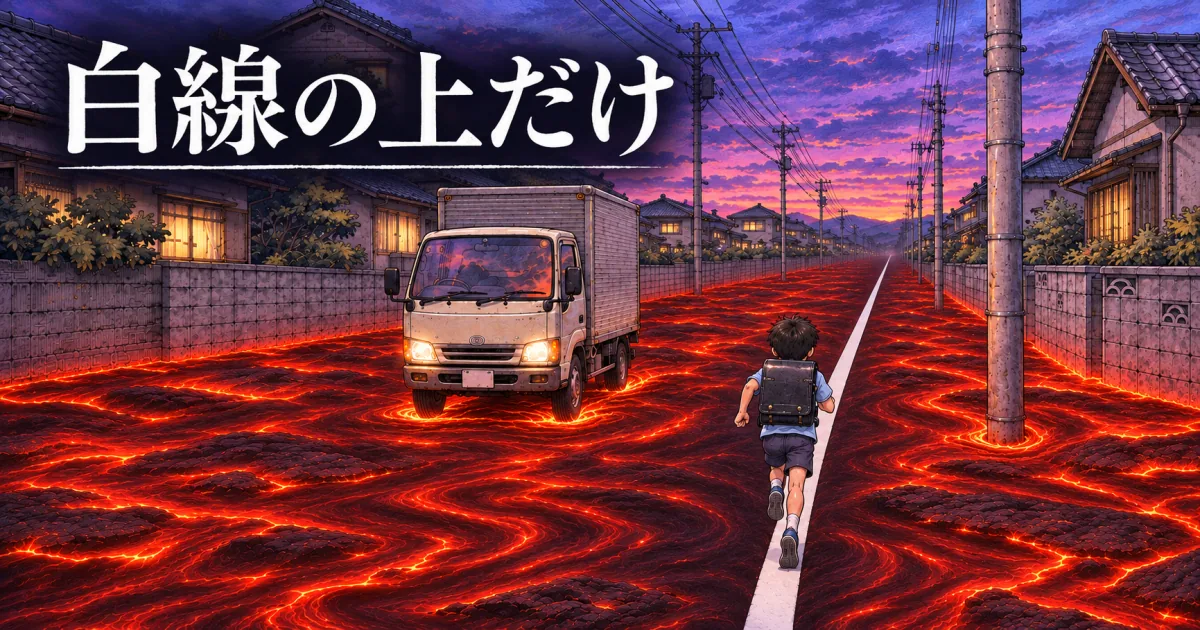
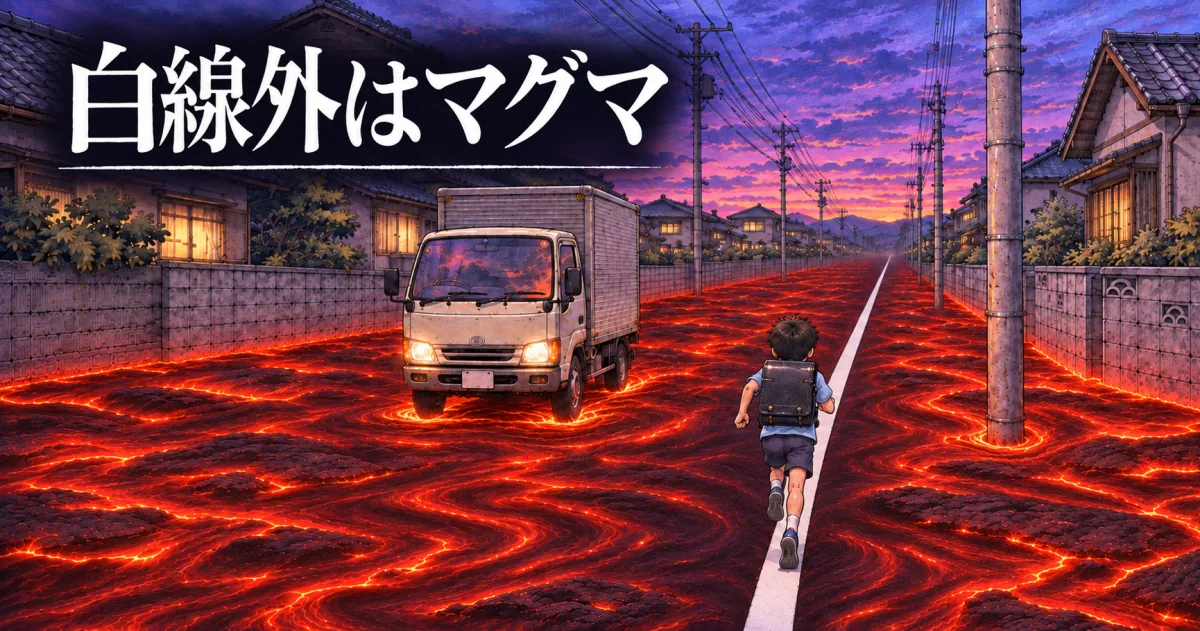
Rename the game to 白線外はマグマ (EMR-279)

diff --git a/white-line-magma/index.html b/white-line-magma/index.html
@@ -5,24 +5,24 @@
     <meta name="viewport" content="width=device-width, initial-scale=1, viewport-fit=cover" />
     <meta name="color-scheme" content="dark" />
     <meta name="theme-color" content="#0a0a0a" />
-    <title>白線の上だけ</title>
+    <title>白線外はマグマ</title>
     <meta name="description" content="夕暮れの通学路。白線の外はマグマ。落ちずにどこまで走れる？" />
     <link rel="canonical" href="https://games.escape-safari.com/white-line-magma/" />
     <meta property="og:type" content="website" />
-    <meta property="og:title" content="白線の上だけ" />
+    <meta property="og:title" content="白線外はマグマ" />
     <meta property="og:description" content="夕暮れの通学路。白線の外はマグマ。落ちずにどこまで走れる？" />
     <meta property="og:url" content="https://games.escape-safari.com/white-line-magma/" />
-    <meta property="og:image" content="https://games.escape-safari.com/white-line-magma/assets/ogp.webp" />
+    <meta property="og:image" content="https://games.escape-safari.com/white-line-magma/assets/ogp.webp?v=white-line-title" />
     <meta property="og:image:type" content="image/webp" />
     <meta property="og:image:width" content="1200" />
-    <meta property="og:image:height" content="630" />
-    <meta property="og:image:alt" content="白線の上だけ。マグマの通学路を走るランドセルの子とトラック。" />
+    <meta property="og:image:height" content="631" />
+    <meta property="og:image:alt" content="白線外はマグマ。マグマの通学路を走るランドセルの子とトラック。" />
     <meta name="twitter:card" content="summary_large_image" />
     <link rel="stylesheet" href="./styles.css?v=screen-controls" />
-    <script type="module" src="./game.js?v=screen-controls"></script>
+    <script type="module" src="./game.js?v=white-line-title"></script>
   </head>
   <body>
-    <main class="notebook" aria-label="白線の上だけ">
+    <main class="notebook" aria-label="白線外はマグマ">
       <p id="cue" class="cue" role="status"></p>
       <section class="stage" aria-label="ゲーム画面">
         <canvas id="world" aria-hidden="true"></canvas>

diff --git a/white-line-magma/game.js b/white-line-magma/game.js
@@ -127,9 +127,9 @@ function setScreen(next, focus = false) {
     bestLabel.textContent = meters(Math.max(best, run.distance));
     const gameUrl = document.querySelector('link[rel="canonical"]').href;
     shareResult.href = globalThis.AkashicCompletion.createShareIntent(
-      `『白線の上だけ』で ${Math.floor(run.distance)} m 走った！`,
+      `『白線外はマグマ』で ${Math.floor(run.distance)} m 走った！`,
       gameUrl,
-      "#白線の上だけ",
+      "#白線外はマグマ",
     );
   }
   if (focus) {
